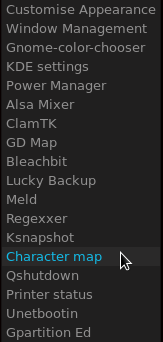
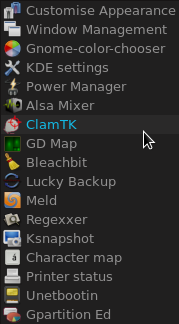
updating pages

Changed region(s): [[0.0, 0.0, 1.0, 1.0], [0.7362, 0.7099, 0.8282, 0.8025], [0.7975, 0.4012, 0.8589, 0.463]]

diff --git a/files/menu-utility.html b/files/menu-utility.html
@@ -11,126 +11,94 @@ title: menu-utility.xml
 <?xml version="1.0" encoding="utf-8"?>
 <openbox_menu>
 	<menu id="menu-utility" label="Utility">
-		<item label="Customise Appearance">
+		<item label=" Customise Appearance" icon="/usr/share/icons/openbox/u/preferences-desktop-theme.png">
 			<action name="Execute">
 				<execute>lxappearance</execute>
 			</action>
 		</item>
-		<item label="Window Management ">
+		<item label=" Window Management " icon="/usr/share/icons/openbox/u/preferences-system-windows.png">
 			<action name="Execute">
 				<execute>obconf</execute>
 			</action>
 		</item>
-		<item label="Gnome-color-chooser">
+		<item label=" Gnome-color-chooser" icon="/usr/share/icons/openbox/u/gnome-color-chooser.svg">
 			<action name="Execute">
 				<execute>gnome-color-chooser</execute>
 			</action>
 		</item>
-		<item label="KDE settings">
+		<item label=" KDE settings" icon="/usr/share/icons/openbox/u/preferences-system.png">
 			<action name="Execute">
 				<execute>systemsettings</execute>
 			</action>
 		</item>
-		<item label="Power Manager">
+		<item label=" Power Manager" icon="/usr/share/icons/openbox/u/xfpm-ac-adapter.png">
 			<action name="Execute">
 				<execute>xfce4-power-manager-settings</execute>
 			</action>
 		</item>
-		<item icon="~/.config/openbox/icons/nm-device-wired.svg" label="Network Connections">
-			<action name="Execute">
-				<execute>nm-connection-editor</execute>
-			</action>
-		</item>
-		<item label="Alsa Mixer">
+		<item label=" Alsa Mixer" icon="/usr/share/icons/openbox/u/mixer-lfe.png">
 			<action name="Execute">
 				<execute>alsamixer</execute>
 			</action>
 		</item>
-		<item label="OB keybindings">
-			<action name="Execute">
-				<execute>~/.obkey-master/obkey ~/.config/openbox/lxde-rc.xml</execute>
-			</action>
-		</item>
-		<item label="OB menu">
-			<action name="Execute">
-				<execute>obmenu</execute>
-			</action>
-		</item>
-		<item label="ClamTK">
+		<item label=" ClamTK" icon="/usr/share/icons/openbox/u/clamtk.xpm">
 			<action name="Execute">
 				<execute>clamtk</execute>
 			</action>
 		</item>
-		<item label="Firestarter">
-			<action name="Execute">
-				<execute>su-to-root -X -c /usr/sbin/firestarter</execute>
-			</action>
-		</item>
-		<item label="Etherape">
-			<action name="Execute">
-				<execute>gksu etherape</execute>
-			</action>
-		</item>
-		<item label="GD Map">
+		<item label=" GD Map" icon="/usr/share/icons/openbox/u/gdmap_icon.xpm">
 			<action name="Execute">
 				<execute>gdmap</execute>
 			</action>
 		</item>
-		<item label="Bleachbit">
+		<item label=" Bleachbit" icon="/usr/share/icons/openbox/u/edit-clear.png">
 			<action name="Execute">
 				<execute>bleachbit</execute>
 			</action>
 		</item>
-		<item label="Lucky Backup">
+		<item label=" Lucky Backup" icon="/usr/share/icons/openbox/u/luckybackup.png">
 			<action name="Execute">
 				<execute>luckybackup</execute>
 			</action>
 		</item>
-		<item label="Catfish">
-			<action name="Execute">
-				<execute>catfish</execute>
-			</action>
-		</item>
-		<item label="Meld">
+		
+		<item label=" Meld" icon="/usr/share/icons/openbox/u/meld.svg">
 			<action name="Execute">
 				<execute>meld</execute>
 			</action>
 		</item>
-		<item label="Regexxer">
+		<item label=" Regexxer" icon="/usr/share/icons/openbox/u/regexxer.png">
 			<action name="Execute">
 				<execute>regexxer</execute>
 			</action>
 		</item>
-		<item label="Ksnapshot">
+		<item label=" Ksnapshot" icon="/usr/share/icons/openbox/u/spectacle.png">
 			<action name="Execute">
 				<execute>ksnapshot</execute>
 			</action>
 		</item>
-		<item label="Character map">
+		<item label=" Character map" icon="/usr/share/icons/openbox/u/accessories-character-map.png">
 			<action name="Execute">
 				<execute>kcharselect</execute>
 			</action>
 		</item>
-		<item label="Qshutdown">
+		<item label=" Printer status" icon="/usr/share/icons/openbox/u/printer.png">
 			<action name="Execute">
-				<execute>qshutdown</execute>
+				<execute>chromium http://localhost:631/printers</execute>
 			</action>
 		</item>
-		<item label="Printer status">
-			<action name="Execute">
-				<execute>chromium http://localhost:631/printers/HP_P1102</execute>
-			</action>
-		</item>
-		<item label="Unetbootin">
+		<item label=" Unetbootin" icon="/usr/share/icons/openbox/u/media-flash.png">
 			<action name="Execute">
 				<execute>unetbootin</execute>
 			</action>
 		</item>
-		<item label="Gpartition Ed">
+		
+		<item label=" Graphical partition Ed" icon="/usr/share/icons/openbox/u/gparted.xpm">
 			<action icon="~/.config/openbox/icons/gparted.png" name="Execute">
 				<execute>gksu gparted</execute>
 			</action>
 		</item>
+		
 	</menu>
 </openbox_menu>
 </textarea>

diff --git a/config/lxde-openbox.html b/config/lxde-openbox.html
@@ -538,7 +538,7 @@ how to configure the OB menu <a href="http://urukrama.wordpress.com/openbox-guid
 pipe menus <a href="http://openbox.org/wiki/Openbox:Pipemenus">openbox.org/wiki</a>
 Arch wiki <a href="https://wiki.archlinux.org/index.php/Openbox">Openbox</a>
 <br><br>
-<img src="{{site.baseurl}}/zimages/obmenu.jpeg" width="188" height="510" alt="my OB menu" align="right">
+<img src="{{site.baseurl}}/zimages/obmenu.png" width="270" height="510" alt="my OB menu" align="right">
 
 
 
@@ -813,6 +813,7 @@ Here's how to make a menu - and you can have as many as you like...
   <li>In the <b>menu section near the end</b> before applications section, add your new menu file's location, e.g. <span style="color:#076b00">&#60;file>~/.config/openbox/menu-utility.xml&#60;/file></span></li>
   <li>Go to keybindings and/or mouse section in lxde-rc.xml and make an action for the new menu to show (see above keybinds/mousebinds)</li>
   <li>Save the file, then hit reconfigure OB again
+  <li>then start adding icons, the tedious part (use bluefish to edit if you like)
   </ul></div>
 
 <br><br>
@@ -842,7 +843,7 @@ I figured how to get the dynamic apps menu onto an OB menu - just make a file wi
 <textarea name="T" id="cmd" rows="1" cols="50">
 leafpad ~/.config/openbox/menu-apps.xml</textarea>
 &nbsp;<input type="button" class="submitLink" value="Select all" onClick="javascript:this.form.T.focus();this.form.T.select();">
-</form><img src="{{site.baseurl}}/zimages/obmenu-apps.png" width="137" height="215" alt="my OB menu" align="right">
+</form><img src="{{site.baseurl}}/zimages/obmenu-apps.png" width="137" height="215" alt="obmenu-apps: my OB menu with main apps" align="right">
 and copy this content into it:
 
 <form><textarea name="T" id="file" rows="5" cols="85">
@@ -861,7 +862,7 @@ add the menu ID to the OB rc.xml file, as well as the keybinds/mousebinds, then 
 I used to have a panel at desktop right covered with utility apps, but it obstructed the page scroll bar all the time so I scrapped it and made a new ob menu that shows with Ctrl-Super-mouse scroll up.  
 <br><br>
 You can use my menu.. first make a file
-  <img src="{{site.baseurl}}/zimages/obmenu-utility.png" width="160" height="341" alt="my OB menu" align="right">
+  <img src="{{site.baseurl}}/zimages/obmenu-utility.png" width="179" height="324" alt="obmenu-utility: my OB menu with utility apps" align="right">
 <form>
 <textarea name="T" id="cmd" rows="1" cols="50">
 leafpad ~/.config/openbox/menu-utility.xml</textarea>
